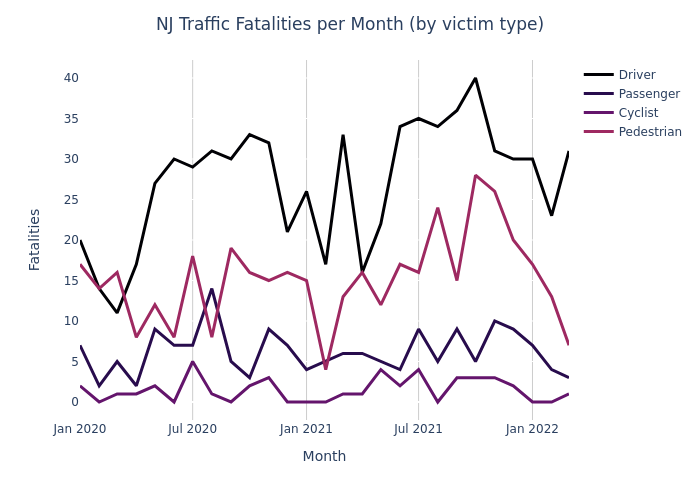
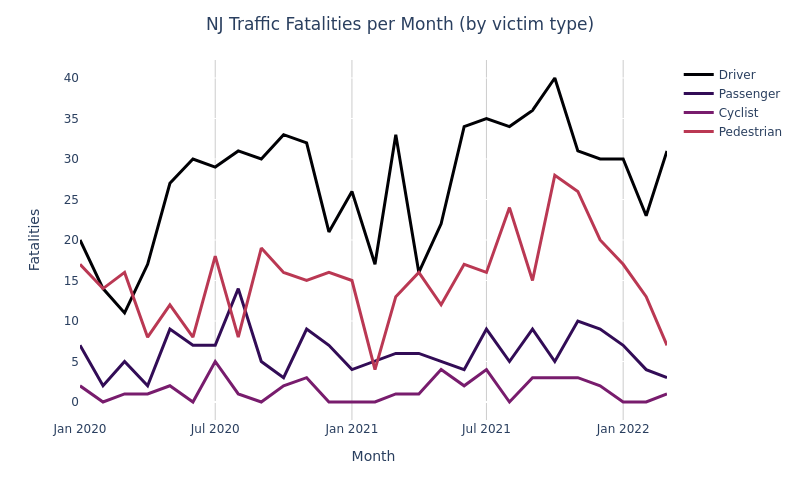
tweak colors, update readme

diff --git a/README.md b/README.md
@@ -1,19 +1,35 @@
 # NJ Traffic Fatality Data
 Analysis of NJSP data from 2008-present: https://nj.gov/njsp/info/fatalacc/index.shtml
 
+### Traffic deaths per month <a id="fatalities_by_month"></a>
+
 ![](./fatalities_by_month_bars.png)
 
 Same plot but with lines:
+
 ![](./fatalities_by_month_lines.png)
 
-The last 6 months of 2021 were the worst months on record (since 2008).
+**The last 6 months of 2021 were the worst months on record (since 2008).**
 
+### Traffic deaths per year <a id="fatalities_per_year"></a>
 2021 was 19% higher than 2020:
 
 ![](./fatalities_per_year.png)
 
-Months w/ 12mo rolling avg:
+Monthly view w/ 12mo rolling avg:
 
 ![](./fatalities_per_month.png)
+
+### "Victim type" subtotals <a id="victim-types"></a>
+Victim type data is available starting in 2020:
+
+![](./fatalities_per_year_by_type.png)
+
+Per-month totals by victim type (restricted to the period where that info is available):
+
+![](./fatalities_per_month_by_type.png)
+
+### Data / Info
+All data c/o NJ State Police: https://nj.gov/njsp/info/fatalacc/index.shtml
 
 Notebook with analysis: [parse-njsp-xmls.ipynb](./parse-njsp-xmls.ipynb)
